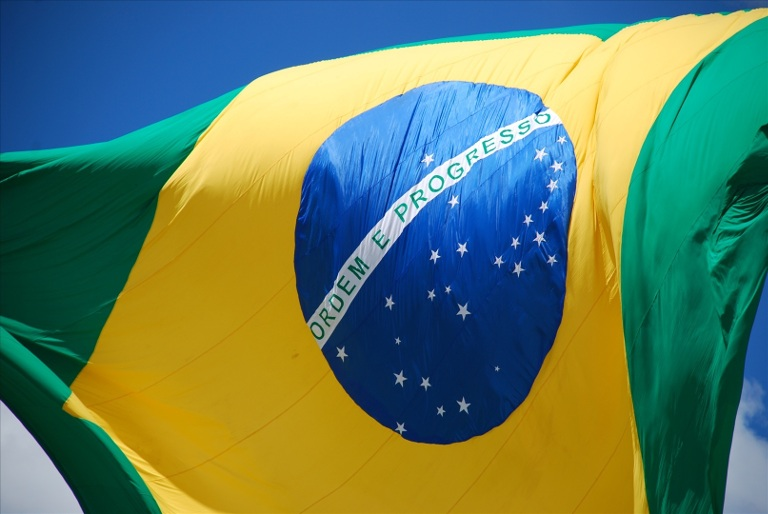
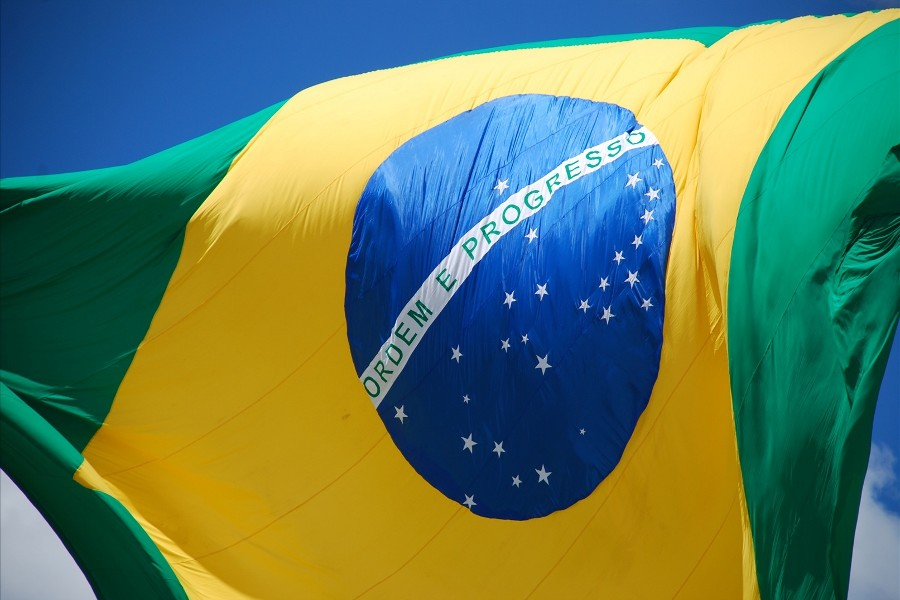
Put some diferent photos to home default news items

diff --git a/src/interlegis/portalmodelo/policy/config.py b/src/interlegis/portalmodelo/policy/config.py
@@ -16,9 +16,18 @@ HOME_TILE_EMBED1 = u'<iframe width="320" height="180" src="https://www.youtube.c
 HOME_TILE_EMBED2 = u'<iframe width="320" height="180" src="https://www.youtube.com/embed/DIMiGgms8rI?rel=0&amp;controls=0&amp;showinfo=0" frameborder="0" allowfullscreen></iframe>'
 CREATORS = (u'Interlegis', )
 
-IMAGE = open(
+IMAGE1 = open(
+    os.path.join(
+        os.path.dirname(__file__), 'browser/static', 'congresso-nacional.jpg')).read()
+IMAGE2 = open(
+    os.path.join(
+        os.path.dirname(__file__), 'browser/static', 'plenario-senado.jpg')).read()
+IMAGE3 = open(
     os.path.join(
         os.path.dirname(__file__), 'browser/static', 'bandeira-brasil.jpg')).read()
+IMAGE4 = open(
+    os.path.join(
+        os.path.dirname(__file__), 'browser/static', 'plenario-camara.jpg')).read()
 
 # new site structure; this dictionary defines the objects that are going to be
 # created on the root of the site; it also includes information about folder
@@ -141,24 +150,28 @@ SITE_STRUCTURE = [
                         title=u'Primeira Notícia',
                         description=LOREM_DESCRIPTION,
                         text=LOREM_TEXT,
+                        image=IMAGE1,
                     ),
                     dict(
                         type='News Item',
                         title=u'Segunda Notícia',
                         description=LOREM_DESCRIPTION,
                         text=LOREM_TEXT,
+                        image=IMAGE2,
                     ),
                     dict(
                         type='News Item',
                         title=u'Terceira Notícia',
                         description=LOREM_DESCRIPTION,
                         text=LOREM_TEXT,
+                        image=IMAGE3,
                     ),
                     dict(
                         type='News Item',
                         title=u'Quarta Notícia',
                         description=LOREM_DESCRIPTION,
                         text=LOREM_TEXT,
+                        image=IMAGE4,
                     ),
                 ],
             ),

diff --git a/src/interlegis/portalmodelo/policy/setuphandlers.py b/src/interlegis/portalmodelo/policy/setuphandlers.py
@@ -2,7 +2,6 @@
 from five import grok
 from interlegis.portalmodelo.policy.config import CREATORS
 from interlegis.portalmodelo.policy.config import DEFAULT_CONTENT
-from interlegis.portalmodelo.policy.config import IMAGE
 from interlegis.portalmodelo.policy.config import HOME_TILE_TEXT
 from interlegis.portalmodelo.policy.config import HOME_TILE_EMBED1
 from interlegis.portalmodelo.policy.config import HOME_TILE_EMBED2
@@ -114,7 +113,8 @@ def create_site_structure(root, structure):
                 create_site_structure(obj, item['_children'])
             # add an image to all news items
             if obj.portal_type == 'News Item':
-                obj.setImage(IMAGE)
+                if 'image' in item:
+                    obj.setImage(item['image'])
             # XXX: workaround for https://github.com/plone/plone.api/issues/99
             obj.setTitle(title)
             obj.setDescription(description)

diff --git a/CHANGES.rst b/CHANGES.rst
@@ -4,6 +4,9 @@ Changelog
 1.0rc4 (unreleased)
 -------------------
 
+- Put some diferent photos to home default news items
+  [jeanferri]
+
 - Fix home and portlet Youtube videos parameters
   [jeanferri]
 
